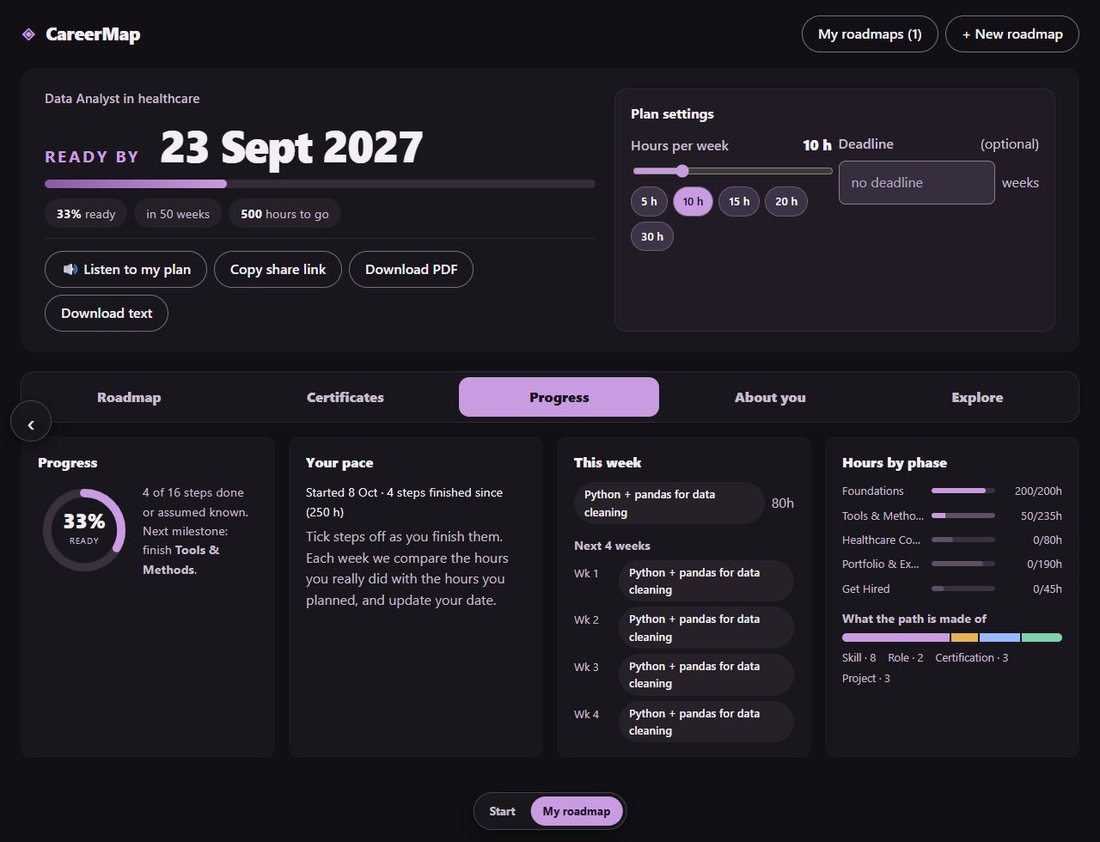
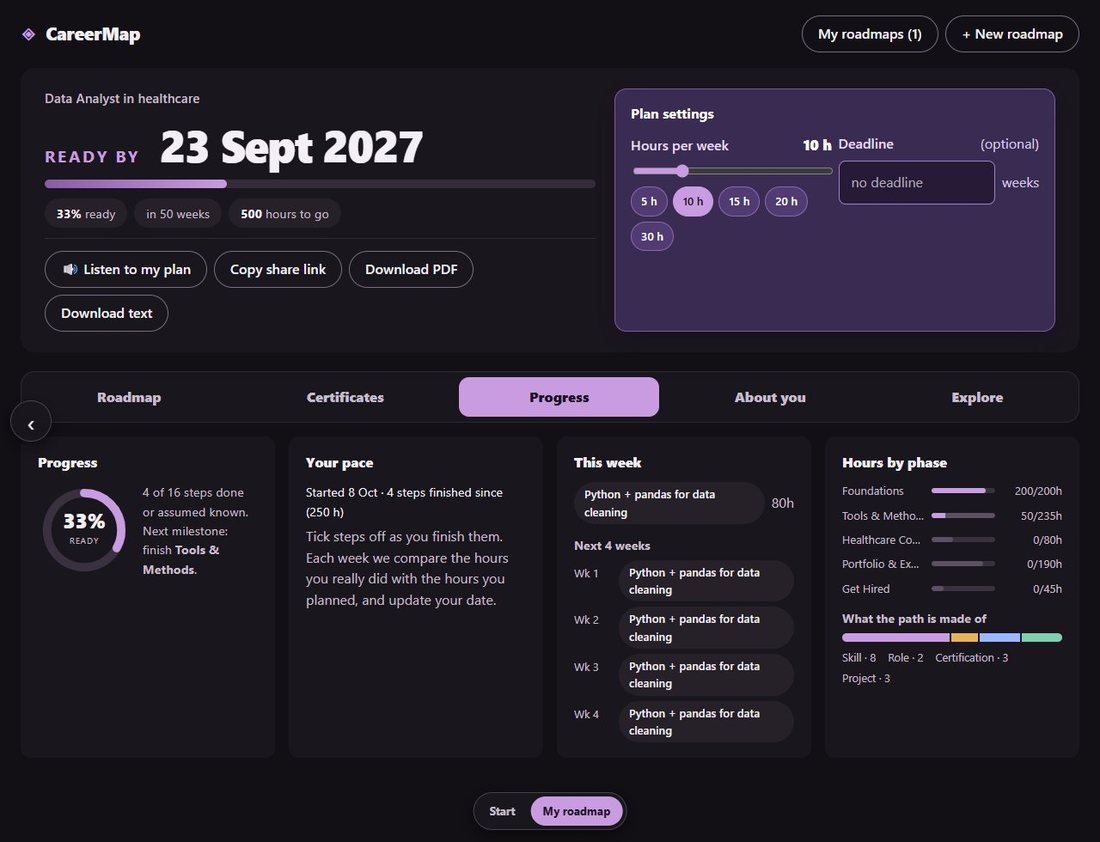
Give the Plan settings card a mauve background

Changed region(s): [[0.5564, 0.0926, 0.9582, 0.4014]]

diff --git a/frontend/src/styles.css b/frontend/src/styles.css
@@ -700,3 +700,16 @@ label { color: #f4eff7; }
 
 .tl-label { font-size: 0.98rem; }
 @media (max-width: 700px) { .tl-label { font-size: 0.8rem; } }
+
+/* plan settings: a mauve card, so it stands out from the dark summary around it */
+.plan-settings { background: #3a2b52; border: 1px solid #7d5ca0; box-shadow: 0 8px 24px rgba(20, 8, 32, 0.45); }
+.plan-settings h3, .plan-settings label strong { color: #ffffff; }
+.plan-settings label { color: #e6d9f2; }
+.plan-settings input[type='number'] { background: #261a36; border-color: #a483c4; }
+.plan-settings .hours-presets .chip { background: #523a72; border-color: #8a68ae; color: #ffffff; }
+.plan-settings .hours-presets .chip:hover { background: #65488a; }
+.plan-settings .hours-presets .chip.is-on { background: var(--accent); border-color: var(--accent); color: var(--on-accent); }
+.plan-settings .optional, .plan-settings .muted { color: #d9c9ea; }
+.plan-settings .linklike { color: #f0d6fb; }
+.plan-settings .callout.fix { background: #241a36; border-color: #c99be0; }
+.plan-settings .stretch-note { color: #e6d9f2; }
